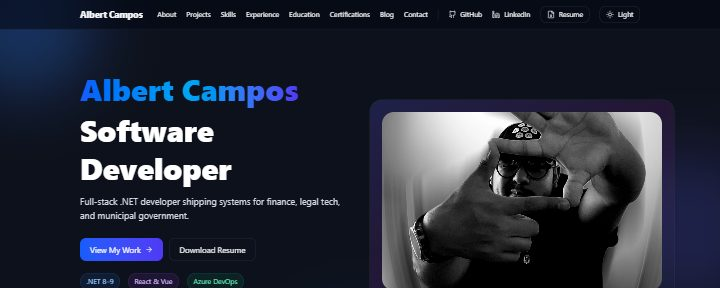
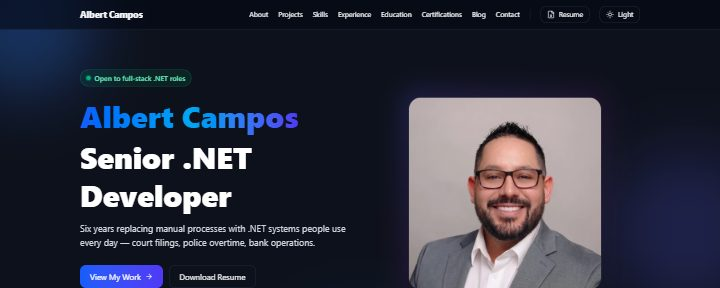
chore: even out the project cards and refresh the screenshots
The grid was badly lopsided. Measured from the live API, total card text
ran from 347 characters (Developer Portfolio) to 1287 (Expunction) — a
3.7x spread that left a large hole under Aviation MRO and made one card
dominate the section. Bullet counts ranged 3 to 5, and the expunction
bullets averaged 196 characters where every other card sat near 95.

That card was my own doing, so it took the deepest cut: five bullets to
four, with the passwordless sign-in detail moved into the description,
where it now also explains the new screenshot. Boston PD loses the vaguest
of its five ("modernized the clerk and supervisor experience"). NAAS and
Developer Portfolio each gain a fourth — the public job postings API, and
the headless-Chrome smoke test — both facts already true and previously
unstated. The migration and SmartFit bullets are trimmed rather than cut.

Every card is now four bullets, with the long ones shortened rather than
the short ones padded.

Screenshots re-captured: the Developer Portfolio card was still showing
the pre-headshot hero, since that image is a capture of tedko.dev itself
and nothing had re-run it since the photo swap. The migration card is not
a capture target, so its diagram is untouched.

diff --git a/profileSiteBackEnd/Models/Models.cs b/profileSiteBackEnd/Models/Models.cs
@@ -157,8 +157,8 @@ namespace profileSiteBackEnd.Models
             RepoUrl = null,
             LiveUrl = null,
             Highlights = new(){
-                "Cut over in dependency order inside a maintenance window: database first, then the services the apps depended on, then the apps themselves",
-                "Cut hosting costs 20% by consolidating onto a shared App Service plan and shutting down AWS resources that were billing without being used",
+                "Cut over in dependency order inside a maintenance window — database, then dependent services, then the apps",
+                "Cut hosting costs 20% by consolidating onto a shared App Service plan and shutting down idle AWS resources",
                 "Kept Salesforce and external data provider integrations live through the move",
                 "Most rollbacks traced to configuration rather than code — endpoints and settings that did not follow the apps across"
             }
@@ -169,7 +169,7 @@ namespace profileSiteBackEnd.Models
             ImageUrl = "/uploads/projects/automated-expunction-engine.jpg",
             Slug = "automated-expunction-engine",
             Title = "Expunction Automation Platform",
-            Description = "Consumer legal platform that takes someone from \"what is on my record\" to a signed court petition: a .NET 8 layered API behind a React front end, covering intake, eligibility, court document generation, and the payment plan that funds the filing, with Salesforce as the system of record on the sales side.",
+            Description = "Consumer legal platform that takes someone from \"what is on my record\" to a signed court petition: a .NET 8 layered API behind a React front end, covering intake, eligibility, court document generation, and the payment plan that funds the filing. Passwordless sign-in throughout — SMS codes and emailed magic links.",
             Tech = new(){".NET 8", "React", "EF Core", "SQL Server", "Azure", "Stripe", "Salesforce API", "iText"},
             RepoUrl = null,
             LiveUrl = "https://www.easyexpunctions.com/",
@@ -180,10 +180,9 @@ namespace profileSiteBackEnd.Models
             // numbers now share one bullet so the card leads with what the
             // system does rather than with metrics.
             Highlights = new(){
-                "Court forms are data, not code: templates, field definitions, and table mappings live in SQL, so a new county's petition is a configuration change — the API hands the front end a field schema to render and stamps the finished PDF with iText",
-                "Document pipeline per offense, not per customer: versioned drafts, bulk generation across every charge in a case, e-signature on the completed expungement forms, and an archived snapshot of every field a customer submitted",
-                "Billing built for people who cannot pay a filing fee at once — one-time products, installment plans modeled as Stripe subscriptions, balance paydown, and webhook-driven fulfillment; documents unlock once an account crosses half paid",
-                "Sign-in paths built for a non-technical audience under stress: SMS codes, emailed magic links, and a support impersonation route, all issuing JWTs with server-side revocation",
+                "Court forms are data, not code — templates and field definitions live in SQL, so a new county's petition is a configuration change",
+                "Versioned drafts per offense, bulk generation across a whole case, and e-signature on the finished petitions",
+                "Installment plans modeled as Stripe subscriptions with balance paydown; documents unlock once an account crosses half paid",
                 "Accelerated case processing by ~30%, cut database latency about 40%, and carried throughput past 500 cases a month"
             }
         },
@@ -199,8 +198,7 @@ namespace profileSiteBackEnd.Models
             LiveUrl = "https://bostonot.extradutysolutions.com/",
             Highlights = new(){
                 "Sole developer: architecture, data layer, UI, SSO, and test suite",
-                "Recovered the business rules from the legacy system's training manual — no specification existed — then refined them through department testing",
-                "Modernized the clerk and supervisor experience without disturbing the surrounding paper and payroll processes",
+                "Recovered the business rules from the legacy system's training manual — no specification existed — then refined them in department testing",
                 "Single sign-on against the City of Boston OIDC tenant, with no self-registration path",
                 "Built to WCAG 2.1 AA, since a public-sector tool has to be usable by everyone on the shift"
             }
@@ -220,7 +218,8 @@ namespace profileSiteBackEnd.Models
             Highlights = new(){
                 "Budget engine rolls time entries into per-task actuals and flags overruns before they land",
                 "Hosted service promotes work orders to Active on their start date, no manual sweep",
-                "Role-scoped access across corporate, manager, and field crew, enforced per location"
+                "Role-scoped access across corporate, manager, and field crew, enforced per location",
+                "Public job postings API consumed by naasllc.com, so the careers page reads from the portal instead of a second source"
             }
         },
         new Project
@@ -236,7 +235,8 @@ namespace profileSiteBackEnd.Models
             Highlights = new(){
                 "Admin panel over the full content model, with BCrypt auth",
                 "Runs as a Windows service bound to loopback; no inbound port is open",
-                "SPA and API share an origin, so there is no CORS layer to configure"
+                "SPA and API share an origin, so there is no CORS layer to configure",
+                "Deploys verified by a headless-Chrome smoke test, because curl cannot tell a working SPA from one serving index.html for every asset"
             }
         },
         new Project
@@ -252,9 +252,9 @@ namespace profileSiteBackEnd.Models
             RepoUrl = null,
             LiveUrl = null,
             Highlights = new(){
-                "Four ways into a food log — photo estimation through the Gemini API, barcode lookup against Open Food Facts, OCR of nutrition labels with Tesseract, and search over an imported USDA dataset",
-                "OpenAPI spec and shared types sit in the same workspace as the API, so the mobile client and the server cannot drift apart quietly",
-                "JWT auth with token refresh handled in the client's HTTP layer, rate limiting and per-user authorization enforced server side",
+                "Four ways into a food log — photo estimation via Gemini, barcode lookup against Open Food Facts, label OCR with Tesseract, and USDA dataset search",
+                "OpenAPI spec and shared types live in the same workspace as the API, so client and server cannot drift apart quietly",
+                "JWT auth with token refresh in the client's HTTP layer; rate limiting and per-user authorization enforced server side",
                 "User-submitted foods carry a reputation score, so community data can be trusted without hand-moderating every entry"
             }
         }
